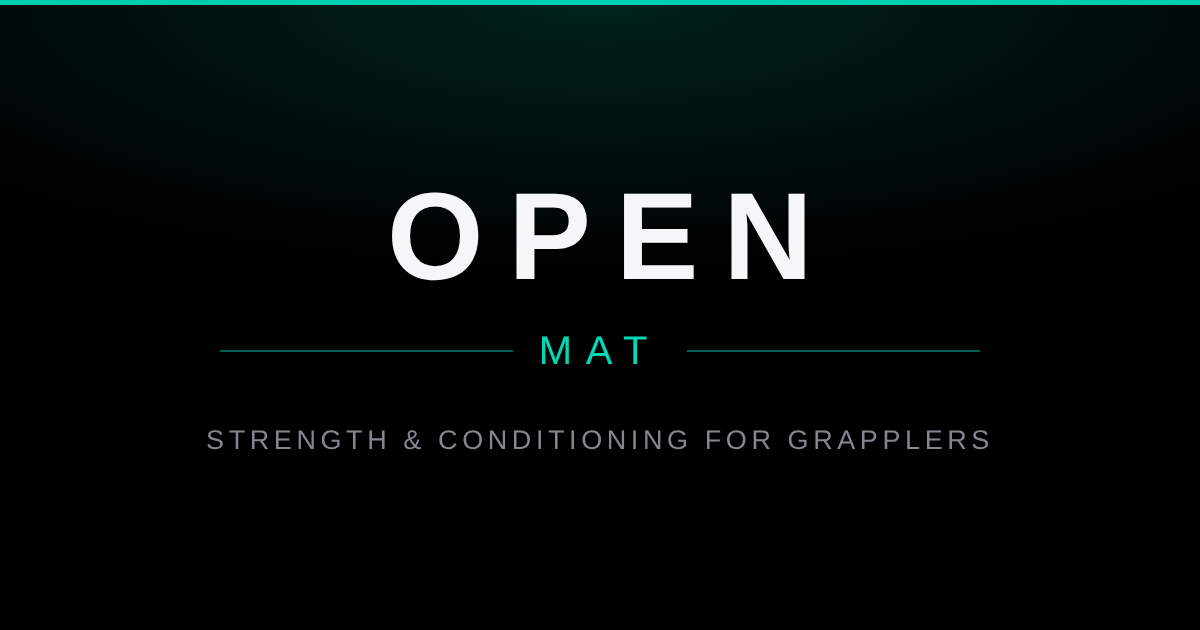
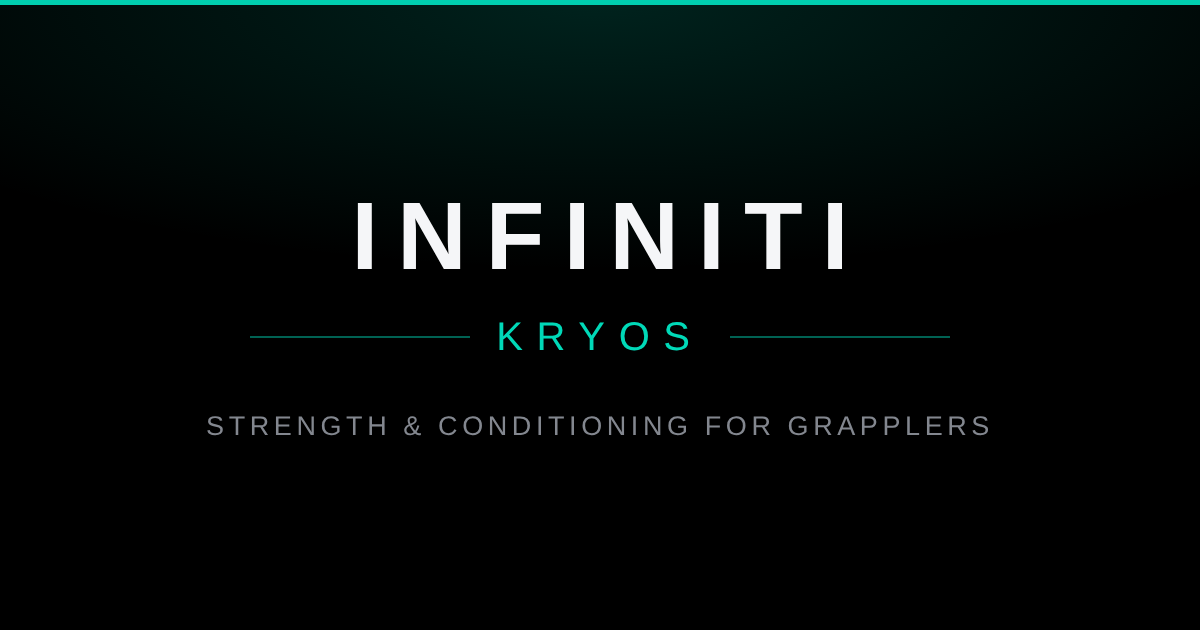
One gym's app, under its own name
Anybody with the link could create an account. That is the wrong shape
for what this is: it was built for the people who train at one gym, and
a link that escapes into another gym's chat should be useless there.

Sign-up now asks for a gym code and refuses without it. The check
happens before the account is created, not after — an account that
exists but cannot be used is worse than one that was never made, because
the email is burned and somebody has to go into the database and delete
it by hand. The code ignores case, spaces and punctuation, because it
gets typed on a phone from a screenshot, and it is still a code rather
than a suggestion: a partial one does not open the door. Left unset
nothing changes, so forgetting to configure it locks nobody out.

What it is not is a secret. The code ships inside the app's JavaScript,
so somebody willing to read the bundle can find it. Enforcing it
properly means checking on the server. This stops the link working for
a person who was not given the code, which is the thing actually worth
stopping — a lock on the door, not a vault — and the setting says so
rather than letting it be mistaken for more.

And the app is Infiniti Kryos now. That is fourteen places: both
wordmarks, the browser tab, the home-screen title, the manifest, the
service worker's cache key, the share sheet, the preview card, the
terms and the waiver. The naming check caught one I had missed — the
[…]

Changed region(s): [[0.2775, 0.3016, 0.7092, 0.4524], [0.1542, 0.6635, 0.8325, 0.7238], [0.185, 0.5127, 0.8017, 0.573]]

diff --git a/src/App.jsx b/src/App.jsx
@@ -73,6 +73,32 @@ const coachCashApp = import.meta.env.VITE_COACH_CASHAPP || "";
 const coachPaymentLink = import.meta.env.VITE_COACH_PAYMENT_LINK || "";
 
 const COACH_USER_ID = import.meta.env.VITE_COACH_USER_ID || "";
+
+// The gym's code. Set it and nobody creates an account without typing it,
+// which is the whole point: this is one gym's app, and a link that escapes
+// into another gym's chat should not work there.
+//
+// Be clear about what this is and is not. It stops the link being useful to
+// somebody who was not given the code — which is the thing actually worth
+// stopping. It is not a secret kept from a determined person: the code ships
+// inside the app's JavaScript, so anybody willing to read the bundle can find
+// it. Enforcing it properly means checking it on the server, and that is a
+// bigger piece of work than this. Treat it as a lock on the door, not a vault.
+//
+// Left unset, the app behaves exactly as it did: anyone can sign up.
+const GYM_CODE = String(import.meta.env.VITE_GYM_CODE || "").trim();
+const gymCodeRequired = () => GYM_CODE.length > 0;
+// Typed on a phone, in a hurry, probably from a screenshot. Case, spaces and
+// stray punctuation should not be the thing that keeps a teammate out.
+const normaliseGymCode = (raw) => String(raw || "").toUpperCase().replace(/[^A-Z0-9]/g, "");
+// The comparison takes both sides so it can be checked without the real code
+// being baked into a test build. An empty expected code means no gate at all.
+function codeMatches(entered, expected) {
+  const want = normaliseGymCode(expected);
+  if (!want) return true;
+  return normaliseGymCode(entered) === want;
+}
+const gymCodeOk = (raw) => codeMatches(raw, GYM_CODE);
 // Every escalation in the app — a payment that has not been marked, a report, a
 // deletion request — ended in "ask your coach". That worked when every athlete
 // trained at the same gym. Set VITE_SUPPORT_EMAIL and it becomes a real path.
@@ -534,7 +560,7 @@ function restorableTeam(teams, teamId) {
 // lands in a room that is empty by definition.
 // What the bar at the top of the Group tab says about teams, beyond where you
 // are standing. Somebody handed a code has to be able to see where it goes:
-// the bar used to say "Open Mat — everyone" and nothing else, which tells a
+// the bar used to say the app's name and nothing else, which tells a
 // person with a code in their hand nothing at all.
 function teamBarHint(teams, activeTeam, waiting) {
   // Somebody waiting on you outranks everything else the bar could say: it is
@@ -2524,7 +2550,7 @@ function UpdateBanner() {
   if (!available || dismissed) return null;
   return (
     <div className="update-banner" role="status">
-      <span>A newer version of Open Mat is ready.</span>
+      <span>A newer version of Infiniti Kryos is ready.</span>
       <span className="update-banner-actions">
         <button className="btn-primary" onClick={() => window.location.reload()}>Reload</button>
         <button className="btn-ghost" onClick={() => setDismissed(true)}>Later</button>
@@ -6729,7 +6755,7 @@ function TeamsPanel({ teams, activeTeam, isCoach, userId, clientName, onSwitch, 
         <button type="button" className={`room-row${!activeTeam ? " current" : ""}`}
           onClick={() => { onSwitch(null); onClose(); }}>
           <span className="room-row-main">
-            <span className="room-row-name">Open Mat — everyone</span>
+            <span className="room-row-name">Everyone at the gym</span>
             <span className="room-row-blurb">The rooms every member shares, across every gym.</span>
           </span>
           {!activeTeam ? <Check size={16} aria-hidden="true" /> : null}
@@ -7621,7 +7647,7 @@ function CommunityTab({ client, userId, isCoach, prefs, onPrefs, unreadByChannel
             ? `Posting in the team ${activeTeam.name}. Change team.`
             : "Posting in the rooms everyone shares. Change team."}>
           <Users size={15} aria-hidden="true" className="team-bar-icon" />
-          <span className="team-bar-name">{activeTeam ? activeTeam.name : "Open Mat — everyone"}</span>
+          <span className="team-bar-name">{activeTeam ? activeTeam.name : "Everyone at the gym"}</span>
           <span className="team-bar-pill">{teamBarHint(teams, activeTeam, waitingOnMe)}</span>
           <ChevronRight size={15} className="room-bar-chev" aria-hidden="true" />
         </button>
@@ -8291,7 +8317,7 @@ function ProgressHub({ client, onPersist, userId }) {
 class AppErrorBoundary extends React.Component {
   constructor(props) { super(props); this.state = { failed: false }; }
   static getDerivedStateFromError() { return { failed: true }; }
-  componentDidCatch(error) { try { console.error("Open Mat error:", error); } catch {} }
+  componentDidCatch(error) { try { console.error("Infiniti Kryos error:", error); } catch {} }
   render() {
     if (!this.state.failed) return this.props.children;
     return (
@@ -8978,7 +9004,7 @@ function OnboardingScreen({ onSubmit }) {
       <div className="logo-block">
         <BrandLockup />
       </div>
-      <div className="program-title" style={{ fontSize: 20, marginBottom: 4 }}>Welcome to Open Mat</div>
+      <div className="program-title" style={{ fontSize: 20, marginBottom: 4 }}>Welcome to Infiniti Kryos</div>
       {!waiver && <p className="muted" style={{ marginBottom: 8 }}>A strength and conditioning system built specifically for Brazilian Jiu-Jitsu and wrestling — every phase, lift, and rep scheme mapped out in advance so there's no guesswork about what to do or why. Strategically built around what a grappler actually needs: real strength, explosive power, durability that holds up under bad positions, and conditioning that doesn't gas out in a hard round.</p>}
       {!waiver && <p className="muted" style={{ marginBottom: 20, fontSize: 12.5 }}>Four short steps — the paperwork, then you, then your week, then anything to work around. It takes a minute and it only happens once.</p>}
 
@@ -9179,8 +9205,8 @@ function PaymentModal({ onClose, userId }) {
 function BrandLockup() {
   return (
     <div className="brand-lockup">
-      <div className="brand-lockup-word">Open</div>
-      <div className="brand-lockup-rule"><span className="brand-rule-line" /><span className="brand-sub">Mat</span><span className="brand-rule-line" /></div>
+      <div className="brand-lockup-word">Infiniti</div>
+      <div className="brand-lockup-rule"><span className="brand-rule-line" /><span className="brand-sub">Kryos</span><span className="brand-rule-line" /></div>
     </div>
   );
 }
@@ -9190,8 +9216,8 @@ function TopBar({ client, isCoach, newSignupCount = 0, onOpenSettings, onOpenPay
     <div className="topbar">
       <div className="brand-block">
         <div className="brand-stack">
-          <div className="brand-word">Open</div>
-          <div className="brand-rule"><span className="brand-rule-line" /><span className="brand-sub">Mat</span><span className="brand-rule-line" /></div>
+          <div className="brand-word">Infiniti</div>
+          <div className="brand-rule"><span className="brand-rule-line" /><span className="brand-sub">Kryos</span><span className="brand-rule-line" /></div>
         </div>
       </div>
       <div className="topbar-avatar-wrap">
@@ -9208,7 +9234,7 @@ function TopBar({ client, isCoach, newSignupCount = 0, onOpenSettings, onOpenPay
       </div>
       <div className="topbar-icons">
         <div className="topbar-icon-group">
-          <button className="icon-btn" onClick={onOpenShare} aria-label="Share Open Mat with a friend"><Share2 size={20} /></button>
+          <button className="icon-btn" onClick={onOpenShare} aria-label="Share Infiniti Kryos with a friend"><Share2 size={20} /></button>
           {isCoach && (
             <button className="icon-btn icon-btn-badged" onClick={onOpenCoachDashboard}
               aria-label={newSignupCount > 0 ? `Coach Dashboard — ${newSignupCount} new sign-up${newSignupCount === 1 ? "" : "s"} to review` : "Coach Dashboard"}>
@@ -9249,7 +9275,7 @@ const TUTORIAL_PAGES = [
 // The legal name behind the app. Change VITE_PROVIDER_NAME in Vercel the day
 // an LLC exists and every agreement in here names the company from then on.
 // Bump WAIVER_VERSION at the same time so athletes re-sign against the new name.
-const PROVIDER = import.meta.env.VITE_PROVIDER_NAME || "Open Mat";
+const PROVIDER = import.meta.env.VITE_PROVIDER_NAME || "Infiniti Kryos";
 
 const WAIVER_VERSION = "2026-11-13";
 
@@ -9894,7 +9920,7 @@ function WaiverModal({ onClose, onAccept, accepted, defaultName = "", dismissibl
 
 
 const TERMS_SECTIONS = [
-  { heading: "What this app is", body: "Open Mat is a strength and conditioning coaching tool built and operated by Kyle Cox, a personal trainer. It gives you a training program, somewhere to log your sessions, and a group feed shared with the other athletes using it. It is not a medical device, not a diagnostic tool, and not a substitute for being coached in person by somebody who can watch you lift." },
+  { heading: "What this app is", body: "Infiniti Kryos is a strength and conditioning coaching tool built and operated by Kyle Cox, a personal trainer, for the athletes of Infiniti BJJ. It gives you a training program, somewhere to log your sessions, and a group feed shared with the other athletes using it. It is not a medical device, not a diagnostic tool, and not a substitute for being coached in person by somebody who can watch you lift." },
   { heading: "Your data", body: "The app stores what it needs to run your program: your name, your bodyweight entries, your workout logs, your daily readiness check-ins, your personal records, the profile picture you upload, the class notes you write, and anything you choose to type into the injury notes box. It's used to run and personalize your training, it is never sold, and apart from the group feed described below it is visible only to you and to the person who operates the app.\n\nThe group feed is different, and it is worth being clear about. Anything you post there — the text, any video you upload, your name and your belt — is visible to every other athlete using the app. Uploaded clips are stored at a public web address, which means anybody given that link can watch the clip without signing in. Posts carry the name on your profile at the time you posted, and changing your name later does not rewrite posts you have already made. Treat the feed as public, and do not post anything there you would mind a stranger seeing." },
   { heading: "Payment", body: `The fee is a one-time payment, due once you have finished your first week of sessions. There is no subscription and no recurring charge — you are not billed again, on this twelve-week block or any future one, and there is nothing to cancel. You pay Kyle directly, through Venmo or whichever method is shown in the app; this app never sees, transmits or stores a card or bank account number, and it cannot charge you. Because the whole program is yours as soon as it unlocks, the fee is not automatically refundable. If something is wrong, email ${SUPPORT_EMAIL || "the address in Settings"} within 14 days of paying and you will be refunded. If you stop training, nothing further is charged and everything you have logged stays in your account.` },
   { heading: "Not coaching, not medical advice", body: "This app is software that writes you a training program. It is not personal training, it is not coaching, and it is not medical care: nobody is supervising you, reviewing your sessions or assessing whether a given lift is safe for you. It cannot account for an injury, a medical condition, or anything else it has not been told, so check with a physician before starting if you have any doubt at all. If something hurts during a session, stop — the app adjusts for how you say you feel, but it cannot see you. Heavy resistance training, including the near-maximal single-rep lifts this program prescribes, carries a real risk of injury. By using this app you confirm you are medically cleared to train, that you are choosing to train unsupervised, and that you accept that risk as your own." },
@@ -9928,7 +9954,7 @@ function ShareModal({ onClose }) {
   // What somebody who has never heard of this reads before deciding whether to
   // tap the link. It has to say what the app actually does, not that it exists.
   const shareText = [
-    "Most lifting programs aren't built for grapplers. This one is. Open Mat writes you a twelve-week strength and conditioning block aimed at what we actually need on the mat: real strength, explosive power, durability that holds up in bad positions, and conditioning that doesn't gas out in a hard round. You don't need a tested max to start, and if you tell it how beaten up you are it rewrites the session before you lift.",
+    "Most lifting programs aren't built for grapplers. This one is. Infiniti Kryos writes you a twelve-week strength and conditioning block aimed at what we actually need on the mat: real strength, explosive power, durability that holds up in bad positions, and conditioning that doesn't gas out in a hard round. You don't need a tested max to start, and if you tell it how beaten up you are it rewrites the session before you lift.",
     "Every set you log is kept and every PR tracked. We get our own private page to break technique down position by position, with video. And the rules game drills competition scoring across four rulesets, so you stop giving away points you never knew you were giving away.",
     "First week is free. Come train:",
   ].join("\n\n");
@@ -9937,7 +9963,7 @@ function ShareModal({ onClose }) {
 
   const handleNativeShare = async () => {
     try {
-      await navigator.share({ title: "Open Mat", text: shareText, url: shareUrl });
+      await navigator.share({ title: PROVIDER, text: shareText, url: shareUrl });
     } catch (err) {
       // The person canceled the share sheet or it failed silently — nothing to surface here.
     }
@@ -9954,7 +9980,7 @@ function ShareModal({ onClose }) {
   };
 
   return (
-    <ModalShell onClose={onClose} title="Share Open Mat">
+    <ModalShell onClose={onClose} title={`Share ${PROVIDER}`}>
       <p className="muted" style={{ marginBottom: 16 }}>Invite a friend to train with you — they'll get their own account and can pick their own program.</p>
       {/* The link on its own told you nothing about what you were about to send
           in your own name. This is the message, exactly as it goes out. */}
@@ -10868,7 +10894,11 @@ function downloadWaiverRecord(records) {
   const signed = loadable.filter((r) => r.full && r.full.waiver && r.full.waiver.at);
   const unsigned = loadable.filter((r) => !(r.full && r.full.waiver && r.full.waiver.at));
   const lines = [];
-  lines.push("OPEN MAT — LIABILITY WAIVER RECORD");
+  // Built from PROVIDER rather than typed, because a hardcoded name here is
+  // exactly what survived the last rename: lowercase searches miss it, and
+  // nothing in the app displays it, so it goes out on the document Kyle hands
+  // to somebody else still carrying the old name.
+  lines.push(PROVIDER.toUpperCase() + " — LIABILITY WAIVER RECORD");
   lines.push("Generated " + generated.toLocaleString(undefined, { dateStyle: "long", timeStyle: "short" }));
   lines.push("");
   lines.push("Athletes who have accepted: " + signed.length + " of " + loadable.length);
@@ -15388,6 +15418,7 @@ function AuthScreen() {
   const [password, setPassword] = useState("");
   const [error, setError] = useState("");
   const [info, setInfo] = useState("");
+  const [gymCode, setGymCode] = useState("");
   const [busy, setBusy] = useState(false);
   const duePrice = PROGRAM_PRICE;
   const hasPaymentInfo = coachVenmo || coachCashApp || coachPaymentLink;
@@ -15397,6 +15428,13 @@ function AuthScreen() {
     setError(""); setInfo(""); setBusy(true);
     try {
       if (mode === "signup") {
+        // Checked before the account is created, not after. An account that
+        // exists but cannot be used is worse than one that was never made.
+        if (!gymCodeOk(gymCode)) {
+          setError("That gym code is not right. Ask your coach for the current one.");
+          setBusy(false);
+          return;
+        }
         const { data: signUpData, error: err } = await supabase.auth.signUp({ email: email.trim(), password });
         if (err) setError(friendlyAuthError(err.message));
         else {
@@ -15466,6 +15504,19 @@ function AuthScreen() {
           )}
           {error && <div className="error-box" role="alert">{error}</div>}
           {info && <div className="success-box" role="status">{info}</div>}
+          {mode === "signup" && gymCodeRequired() && (
+            <label className="labeled-input">
+              <span><Lock size={13} style={{ marginRight: 5, verticalAlign: -2 }} />Gym code</span>
+              <input type="text" required autoComplete="off" autoCapitalize="characters" spellCheck={false}
+                value={gymCode} onChange={(e) => setGymCode(e.target.value)}
+                placeholder="From your coach" aria-describedby="gym-code-help" />
+            </label>
+          )}
+          {mode === "signup" && gymCodeRequired() && (
+            <p className="muted" id="gym-code-help" style={{ fontSize: 12, lineHeight: 1.5, margin: "-4px 0 12px" }}>
+              This app is for one gym. If you train here and do not have the code, ask your coach.
+            </p>
+          )}
           {mode === "signup" && (
             <p className="muted" style={{ fontSize: 12, lineHeight: 1.5, margin: "4px 0 12px" }}>
               This app writes you a strength program and tracks your training. It is software, not

diff --git a/index.html b/index.html
@@ -3,13 +3,13 @@
   <head>
     <meta charset="UTF-8" />
     <meta name="viewport" content="width=device-width, initial-scale=1.0, viewport-fit=cover" />
-    <title>Open Mat</title>
+    <title>Infiniti Kryos</title>
     <meta name="description" content="Strength & conditioning training program for grapplers." />
     <!-- Per scheme, so the status-bar area is not black behind a light app. The
          values are the --bg tokens from the two themes in App.jsx. -->
     <meta name="theme-color" content="#eceef1" media="(prefers-color-scheme: light)" />
     <meta name="theme-color" content="#000000" media="(prefers-color-scheme: dark)" />
-    <meta name="apple-mobile-web-app-title" content="Open Mat" />
+    <meta name="apple-mobile-web-app-title" content="Infiniti Kryos" />
 
     <!-- The card that appears when somebody pastes the link into iMessage,
          WhatsApp, Instagram or Slack. Without these the link arrives as a bare
@@ -20,17 +20,17 @@
          og:url is absolute because a preview is fetched by somebody else's
          server, which has no idea what page the link came from. -->
     <meta property="og:type" content="website" />
-    <meta property="og:site_name" content="Open Mat" />
-    <meta property="og:title" content="Open Mat — Strength &amp; Conditioning for Grapplers" />
-    <meta property="og:description" content="A twelve-week strength and conditioning program built for jiu-jitsu and wrestling, with technique rooms and a competition rules game. First week free." />
+    <meta property="og:site_name" content="Infiniti Kryos" />
+    <meta property="og:title" content="Infiniti Kryos — Strength &amp; Conditioning for Grapplers" />
+    <meta property="og:description" content="A twelve-week strength and conditioning program for the athletes of Infiniti BJJ, with technique rooms and a competition rules game." />
     <meta property="og:url" content="https://open-mat.pages.dev" />
     <meta property="og:image" content="https://open-mat.pages.dev/share-card.png" />
     <meta property="og:image:width" content="1200" />
     <meta property="og:image:height" content="630" />
-    <meta property="og:image:alt" content="Open Mat — strength and conditioning for grapplers" />
+    <meta property="og:image:alt" content="Infiniti Kryos — strength and conditioning for grapplers" />
     <meta name="twitter:card" content="summary_large_image" />
-    <meta name="twitter:title" content="Open Mat — Strength &amp; Conditioning for Grapplers" />
-    <meta name="twitter:description" content="A twelve-week strength and conditioning program built for jiu-jitsu and wrestling, with technique rooms and a competition rules game. First week free." />
+    <meta name="twitter:title" content="Infiniti Kryos — Strength &amp; Conditioning for Grapplers" />
+    <meta name="twitter:description" content="A twelve-week strength and conditioning program for the athletes of Infiniti BJJ, with technique rooms and a competition rules game." />
     <meta name="twitter:image" content="https://open-mat.pages.dev/share-card.png" />
     <meta name="apple-mobile-web-app-capable" content="yes" />
     <link rel="manifest" href="/manifest.webmanifest" />

diff --git a/public/sw.js b/public/sw.js
@@ -22,7 +22,7 @@
 //     Supabase is a different origin and never goes near this cache. Training
 //     data syncs the way it always did; this only makes the shell openable.
 
-const CACHE = "open-mat-shell-v2";
+const CACHE = "infiniti-kryos-shell-v1";
 const SHELL = ["/", "/index.html"];
 
 self.addEventListener("install", (event) => {
